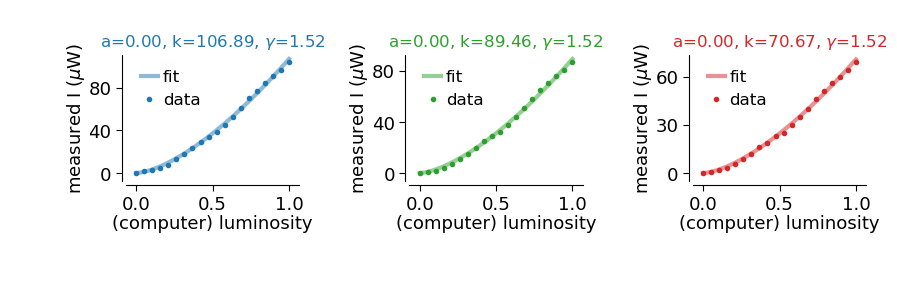
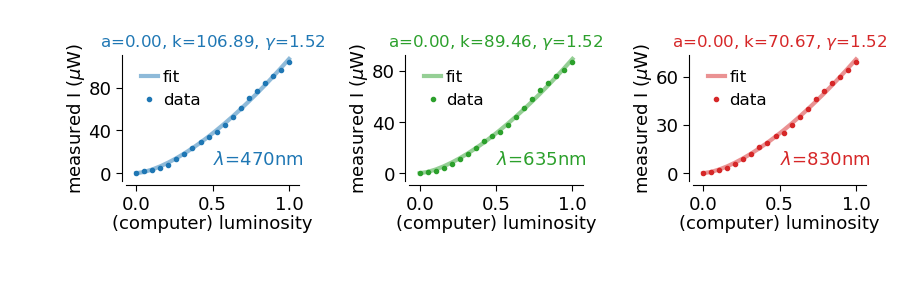
adding gamma correction to doc

Changed region(s): [[0.2185, 0.5371, 0.3434, 0.5936], [0.5307, 0.5371, 0.6555, 0.5936], [0.874, 0.5371, 0.9677, 0.5936]]

diff --git a/visual_stim/gamma-correction.py b/visual_stim/gamma-correction.py
@@ -2,7 +2,7 @@ import numpy as np
 from datavyz import ges as ge
 from scipy.optimize import minimize
 
-# blue=470nm, green=635nm, red=830nm
+LAMBDA = {'blue':'470nm', 'green':'635nm', 'red':'830nm'}
 
 # values in microwatts (microwatt precision)
 calib =  {'center': {'green':[0, 1, 2, 4, 7, 11, 15, 20, 25, 29, 32, 38, 44, 51, 58, 65, 71, 76, 81, 87], 'red':[0, 1, 2, 3, 6, 9, 12, 16, 19, 23, 25, 30, 35, 40, 46, 51, 56, 60, 64, 69], 'blue':[0, 2, 3, 5, 8, 13, 18, 24, 29, 34, 39, 45, 53, 61, 70, 77, 84, 91, 97, 104]},
@@ -32,6 +32,7 @@ for location in ['center']:
         ge.title(AX[i], "a=%.2f, k=%.2f, $\gamma$=%.2f" % (residual.x[0], residual.x[1], residual.x[2]), color=getattr(ge, color), size='small')
         ge.scatter(lum, array, ax=AX[i], color=getattr(ge, color), label='data', ms=3)
         ge.plot(lum, func(lum, residual.x), ax=AX[i], lw=3, alpha=.5, color=getattr(ge, color), label='fit')
+        ge.annotate(AX[i],'$\lambda$=%s' % LAMBDA[color], (0.5,.1), color=getattr(ge, color))
         ge.set_plot(AX[i], xlabel='(computer) luminosity', xticks=[0,0.5, 1], ylabel='measured I ($\mu$W)')
-    
+
 fig.savefig('../doc/gamma-correction.png')

diff --git a/visual_stim/README.md b/visual_stim/README.md
@@ -31,7 +31,8 @@ There is a `"demo"` mode to adjust and build the protocols.
 
 We present a uniform full-screen at different levels of luminance, we use  a photometer to measure the true light intensity.
 
-We fit the formula `f(x) = a + k * x^g ` (see above fits) and we insert the `a`, 'k' and 'g' parameters in the "Monitor center" of `psychopy`.
+We fit the formula `f(x) = a + k * x^g ` (constrained minimization, see [gamma-correction.py](./gamma-correction.py) and fits below).
+We then insert the `a`, 'k' and 'g' parameters in the "Monitor center" of `psychopy`.
 
 <p align="center">
   <img src="../doc/gamma-correction.png"/>
